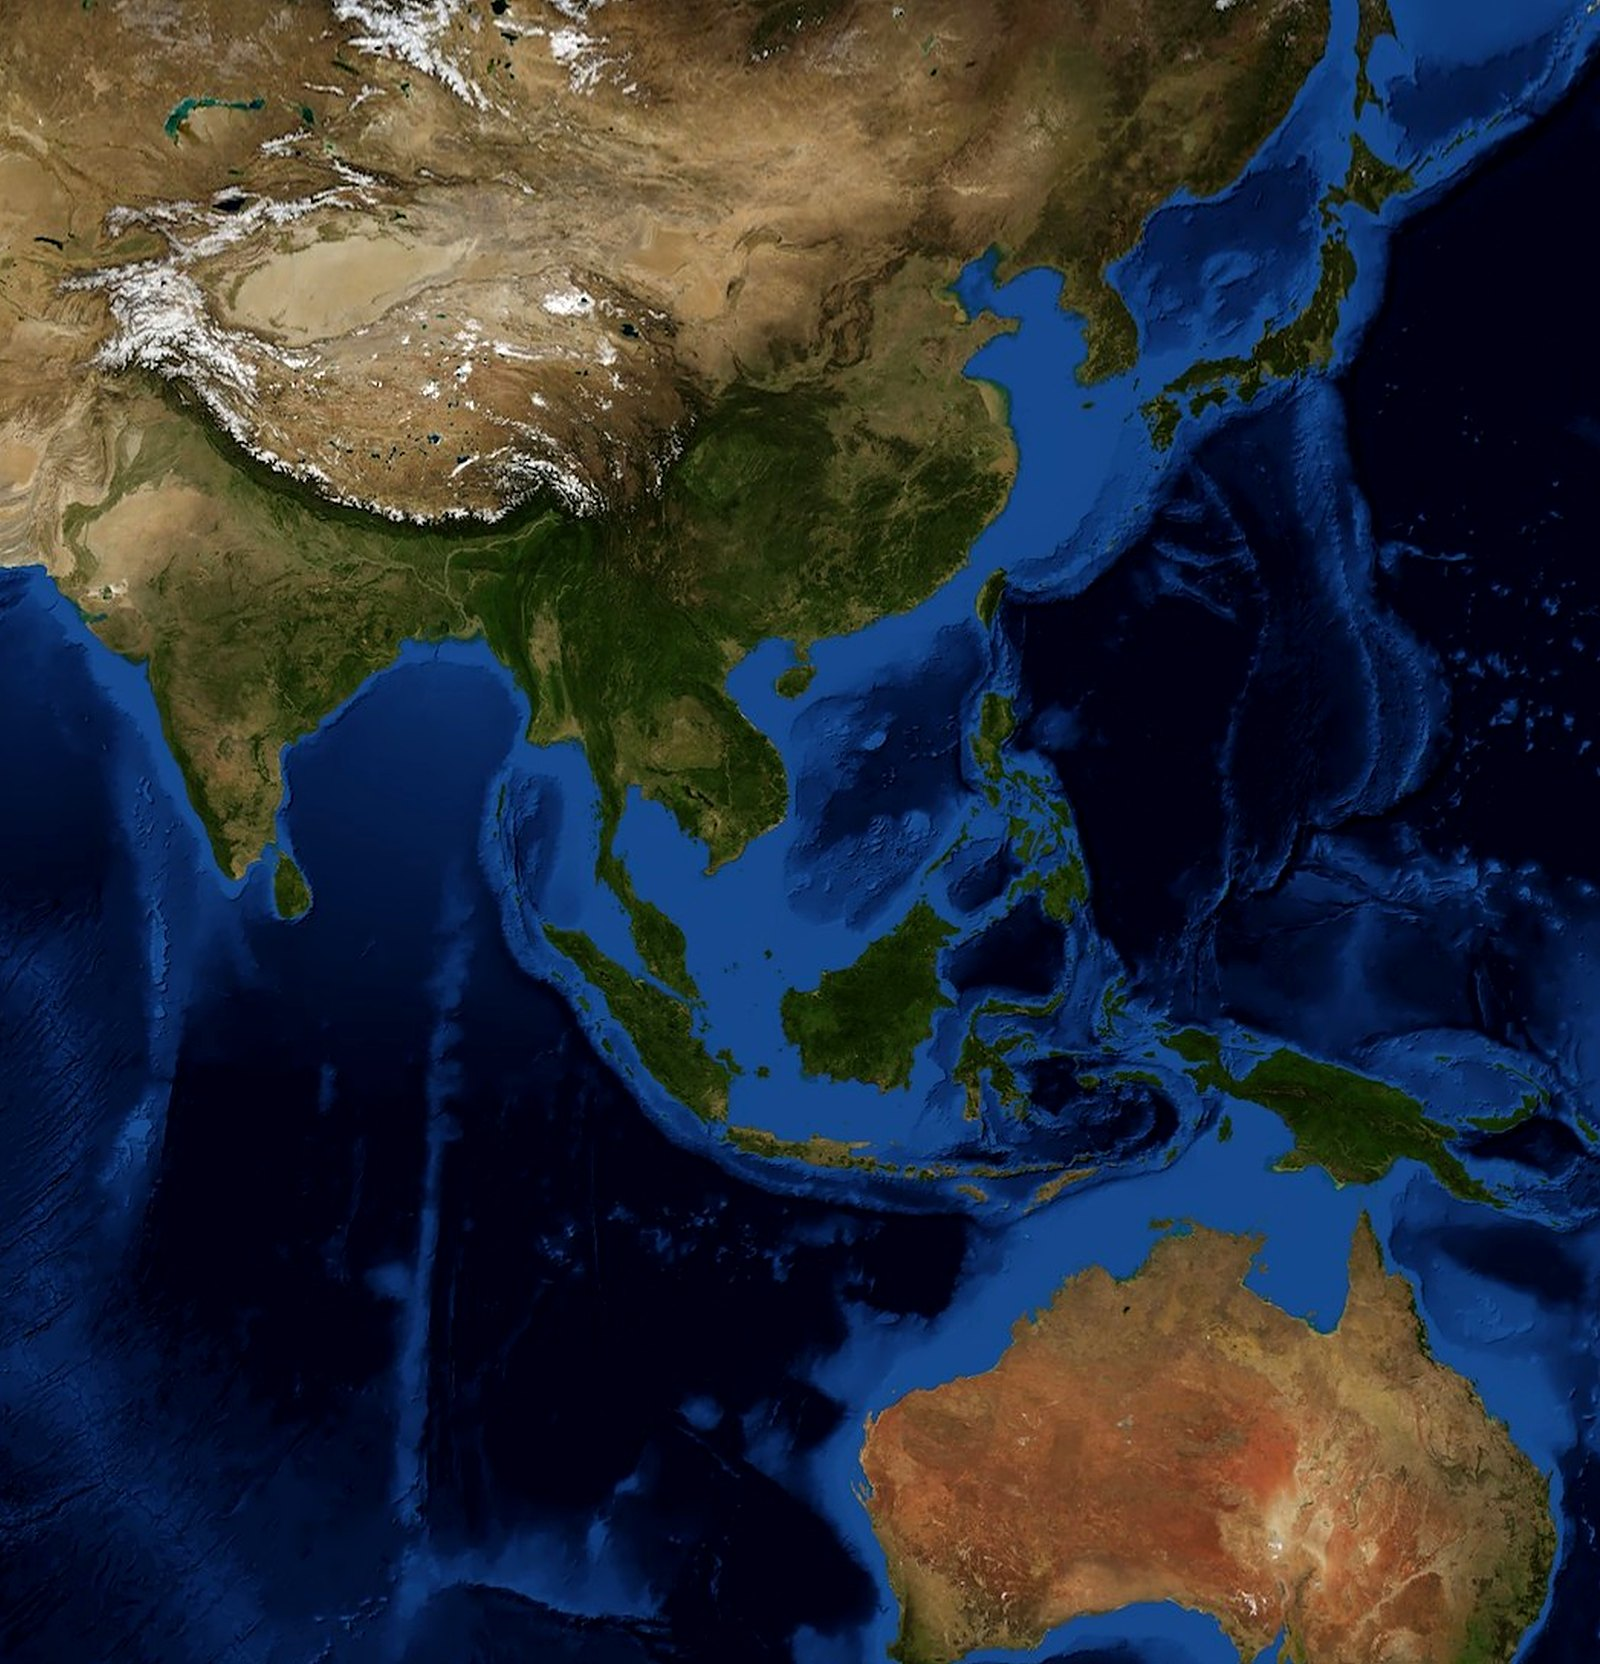
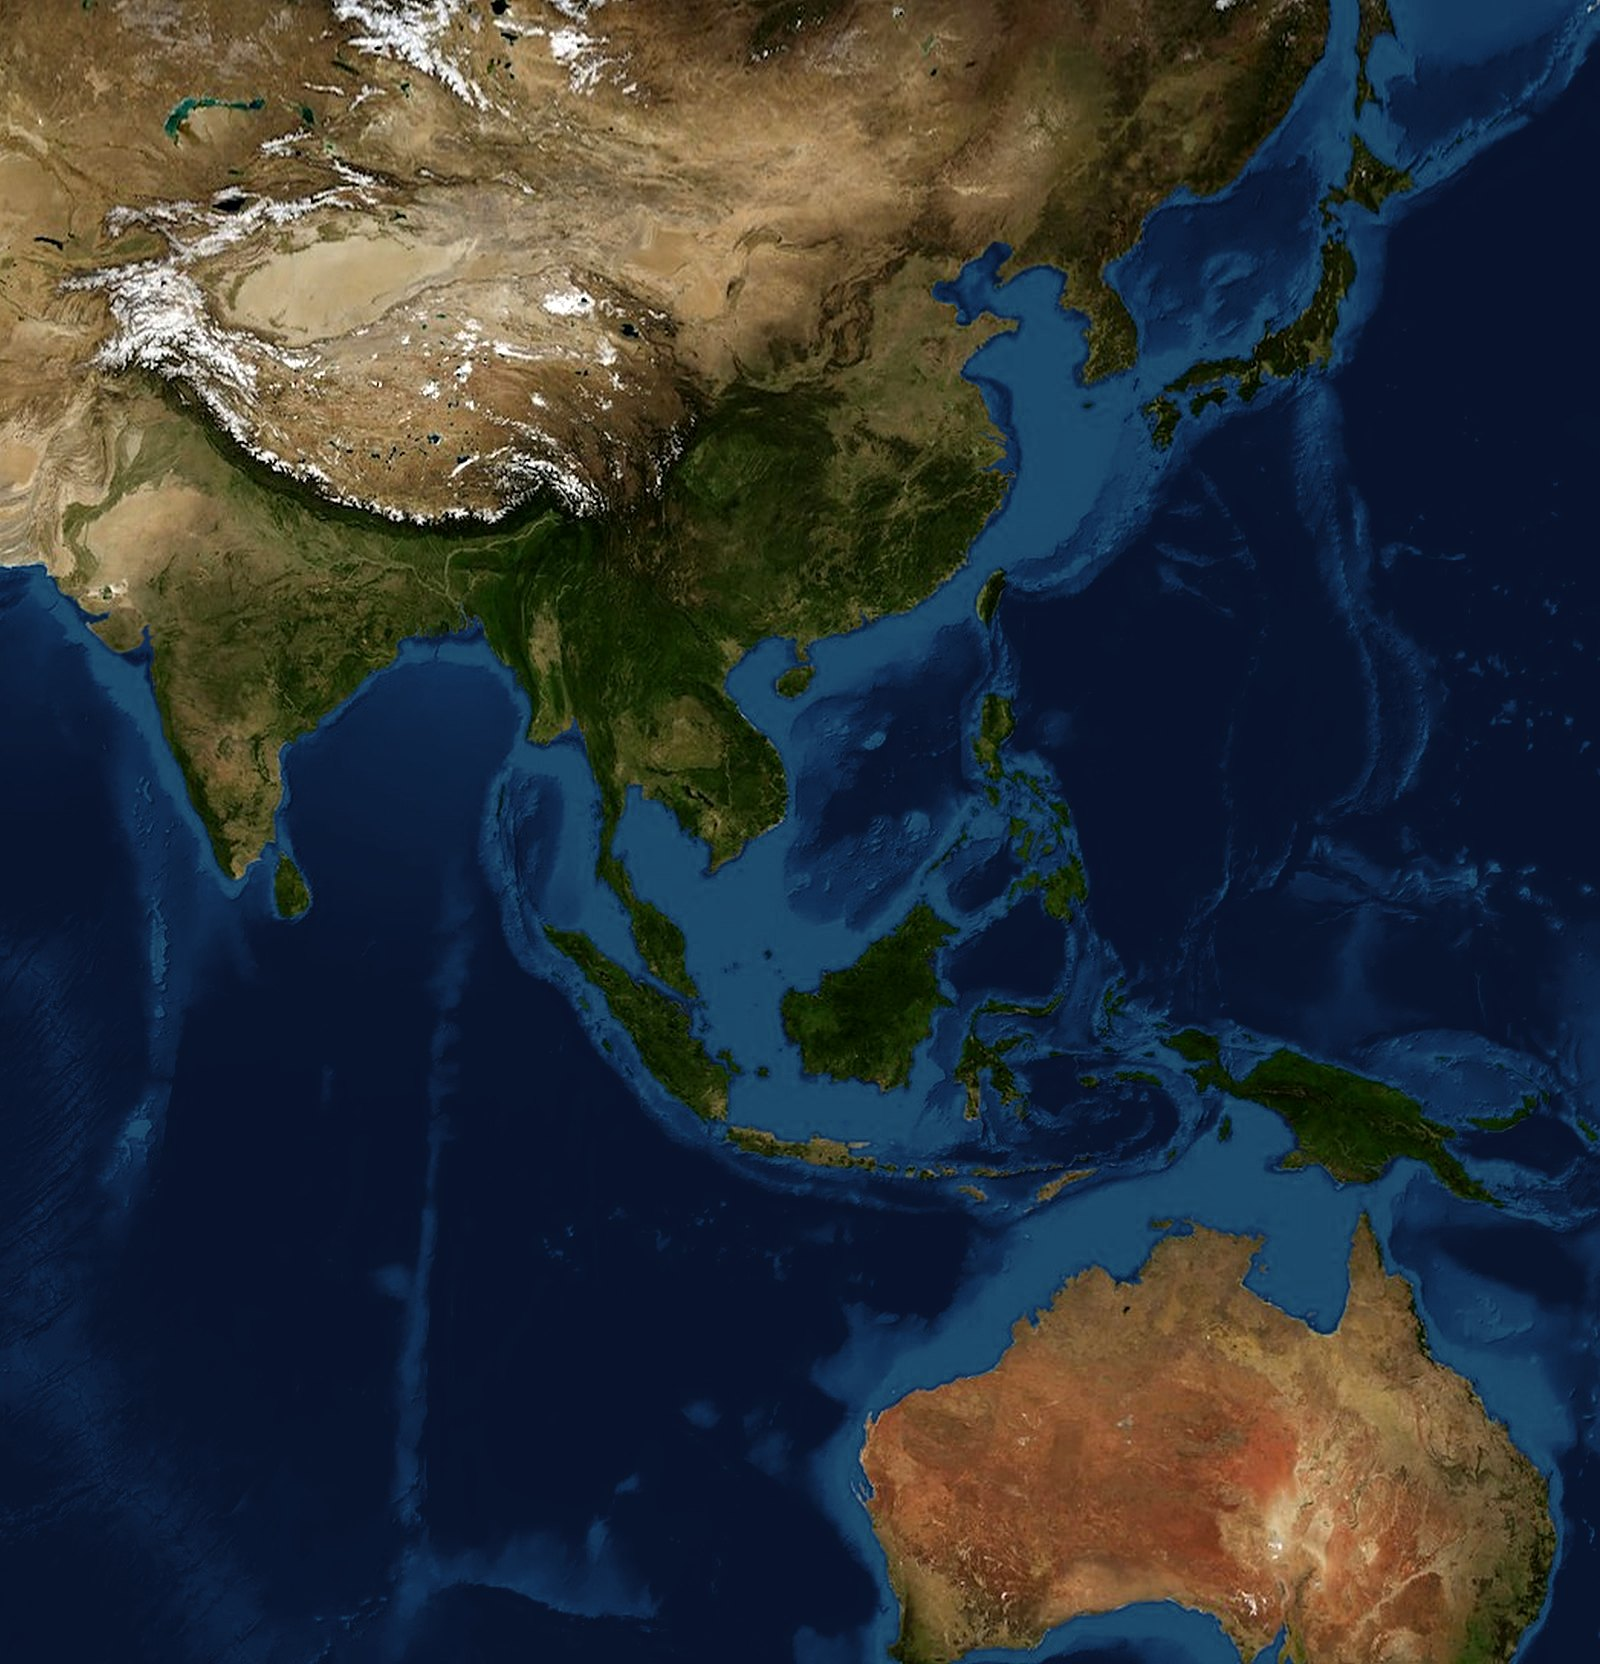
White header with gold nav, map and verses on the first screen
- Header: white bar, larger deep warm-gold nav (Cinzel caps, AA contrast
  on white), logo on its own deep-emerald corner like the artwork.
- Hero: one centred headline, then the satellite map and the verses
  block straight away so both are visible on opening. "Explore the
  collection" sits on the map over open land in the north; the intro
  sentence and the origins/ritual/legacy links are removed.
- Satellite imagery graded toward Google Earth's look: deep navy oceans
  with softer shelves, more natural land, coast masked with the Natural
  Earth outlines (scripts/grade-satellite.py).

Claude-Session: https://claude.ai/code/session_014JXnseoatscuvuVcnBHPzm

diff --git a/src/app/page.tsx b/src/app/page.tsx
@@ -76,12 +76,12 @@ const verses = [
 
 function Signs() {
   return (
-    <aside aria-label="From the Holy Qur'an" className="frame relative bg-night/55 px-6 py-9 sm:px-10">
+    <aside aria-label="From the Holy Qur'an" className="frame relative bg-night/55 px-6 py-7 sm:px-9">
       <span aria-hidden className="absolute inset-2 border border-gold-hair" />
-      <ul className="relative space-y-8">
+      <ul className="relative space-y-6">
         {verses.map((v) => (
           <li key={v.ref} className="text-center">
-            <p lang="ar" dir="rtl" className="quran text-[1.7rem] leading-[2.1] sm:text-[2rem]">
+            <p lang="ar" dir="rtl" className="quran text-[1.6rem] leading-[2] sm:text-[1.85rem]">
               {v.arabic}
             </p>
             <p className="mx-auto mt-3 max-w-lg text-[1.02rem] italic leading-relaxed text-ivory">
@@ -91,7 +91,7 @@ function Signs() {
           </li>
         ))}
       </ul>
-      <div aria-hidden className="relative mx-auto my-8 flex items-center justify-center gap-3">
+      <div aria-hidden className="relative mx-auto my-6 flex items-center justify-center gap-3">
         <span className="h-px w-12 bg-gold-line" />
         <span className="h-1.5 w-1.5 rotate-45 bg-gold" />
         <span className="h-px w-12 bg-gold-line" />
@@ -118,42 +118,26 @@ export default function Home() {
       <section className="velvet relative isolate overflow-hidden border-b border-gold-line">
         <BotanicalSprig className="absolute -left-6 top-0 -z-10 hidden h-full w-40 text-gold/25 md:block" />
 
-        <div className="mx-auto w-full max-w-[1400px] px-5 pb-14 pt-8 sm:px-8 md:pb-16 md:pt-10">
-          <div className="flex flex-wrap items-end justify-between gap-x-12 gap-y-6 md:pl-10">
-            <div className="max-w-3xl">
-              <h1 className="display text-[2.6rem] sm:text-5xl lg:text-[3.6rem]">
-                True Agarwood from Different Parts of Asia
-              </h1>
-              <p className="mt-4 max-w-xl text-[1.12rem] leading-relaxed text-ivory">
-                Genuine agarwood, formed over years as a tree answers a wound with fragrant resin.
-              </p>
-            </div>
-            <div className="flex flex-col items-start gap-5">
-              <Link href="/collection" className="btn btn-line">
-                Explore the collection <ArrowIcon className="h-4 w-4" />
-              </Link>
-              <ul className="eyebrow eyebrow-gold flex flex-wrap items-center gap-x-4 gap-y-2 !text-[0.55rem]">
-                <li>
-                  <Link href="/origins" className="hover:text-gold-bright">Rare origins</Link>
-                </li>
-                <li aria-hidden className="h-3 w-px bg-gold" />
-                <li>
-                  <Link href="/ritual" className="hover:text-gold-bright">The ritual</Link>
-                </li>
-                <li aria-hidden className="h-3 w-px bg-gold" />
-                <li>
-                  <Link href="/our-story" className="hover:text-gold-bright">Lasting legacy</Link>
-                </li>
-              </ul>
-            </div>
-          </div>
+        <div className="mx-auto w-full max-w-[1400px] px-5 pb-12 pt-5 sm:px-8 md:pt-6">
+          <h1 className="display text-balance text-center text-[2.1rem] sm:text-[2.6rem] lg:text-[3rem]">
+            True Agarwood from Different Parts of Asia
+          </h1>
 
-          <div className="mt-10 grid items-stretch gap-8 lg:grid-cols-[minmax(0,1.15fr)_minmax(0,1fr)] md:pl-10">
+          <div className="mt-5 grid items-stretch gap-6 lg:grid-cols-[minmax(0,1.15fr)_minmax(0,1fr)]">
             <figure className="frame relative flex flex-col bg-night/55 p-2">
-              <div className="relative aspect-[1000/720] overflow-hidden bg-black lg:aspect-auto lg:flex-1">
+              <div className="relative aspect-[1000/760] overflow-hidden bg-black lg:aspect-auto lg:flex-1">
                 <AsiaMap cover className="absolute inset-0 h-full w-full" />
+                {/* Over the open land of the north, clear of every country name. */}
+                <div className="absolute inset-x-0 top-[4%] flex justify-center px-4">
+                  <Link
+                    href="/collection"
+                    className="btn btn-solid !min-h-[2.5rem] !gap-3 !px-5 !text-[0.6rem] sm:!min-h-[3.2rem] sm:!gap-4 sm:!px-8 sm:!text-[0.74rem] shadow-[0_6px_28px_rgb(0_0_0_/_0.55)] ring-1 ring-gold-bright/70"
+                  >
+                    Explore the collection <ArrowIcon className="h-4 w-4" />
+                  </Link>
+                </div>
               </div>
-              <figcaption className="flex flex-wrap items-center justify-between gap-2 px-3 pb-1 pt-3">
+              <figcaption className="flex flex-wrap items-center justify-between gap-2 px-3 pb-1 pt-2.5">
                 <span className="eyebrow eyebrow-gold !text-[0.55rem]">Where agarwood grows</span>
                 <span className="text-[0.75rem] italic text-ivory-faint">
                   Satellite imagery: NASA Blue Marble

diff --git a/src/components/Header.tsx b/src/components/Header.tsx
@@ -24,23 +24,26 @@ export function Logo({ small = false }: { small?: boolean }) {
 
 export function Header() {
   return (
-    <header className="relative z-30 border-b border-gold-line bg-night/70 backdrop-blur-sm">
-      <div className="mx-auto flex max-w-[1400px] items-center justify-between gap-6 px-5 py-2 sm:px-8">
+    <header className="relative z-30 flex items-stretch border-b border-gold bg-white">
+      {/* The logo sits on its own deep-emerald corner, as in the original artwork. */}
+      <div className="flex shrink-0 items-center bg-emerald bg-[radial-gradient(90%_90%_at_50%_45%,#00461a_0%,#002e0a_70%)] px-5 py-2 sm:px-8">
         <Logo />
-        <nav aria-label="Main" className="hidden lg:block">
+      </div>
+      <div className="flex flex-1 items-center justify-between gap-6 px-5 sm:px-8">
+        <nav aria-label="Main" className="hidden flex-1 justify-center lg:flex">
           <NavLinks />
         </nav>
-        <div className="flex items-center gap-2 sm:gap-4">
+        <div className="ml-auto flex items-center gap-2 sm:gap-4">
           <Link
             href="/collection"
             aria-label="Search the collection"
-            className="hidden h-11 w-11 items-center justify-center text-ivory hover:text-gold sm:flex"
+            className="hidden h-11 w-11 items-center justify-center text-gold-deep hover:text-emerald sm:flex"
           >
-            <SearchIcon className="h-5 w-5" />
+            <SearchIcon className="h-6 w-6" />
           </Link>
           <CartButton />
-          <span aria-hidden className="mx-2 hidden h-10 w-px bg-gold-line xl:block" />
-          <p className="side-note hidden !text-[0.5rem] !leading-[1.7] xl:block">
+          <span aria-hidden className="mx-2 hidden h-10 w-px bg-gold/60 min-[1400px]:block" />
+          <p className="side-note hidden !text-[0.58rem] !leading-[1.7] !text-gold-deep min-[1400px]:block">
             A more
             <br />
             fragrant
@@ -48,7 +51,9 @@ export function Header() {
             world
           </p>
           <details className="relative lg:hidden">
-            <summary className="eyebrow flex h-11 cursor-pointer list-none items-center px-2">Menu</summary>
+            <summary className="flex h-11 cursor-pointer list-none items-center px-2 font-[family-name:var(--font-caps)] text-[0.85rem] font-semibold tracking-[0.25em] text-gold-deep uppercase">
+              Menu
+            </summary>
             <nav
               aria-label="Mobile"
               className="absolute right-0 top-12 w-64 border border-gold-line bg-night p-5"

diff --git a/src/components/NavLinks.tsx b/src/components/NavLinks.tsx
@@ -7,7 +7,7 @@ import { nav } from "@/content/nav";
 export function NavLinks() {
   const pathname = usePathname();
   return (
-    <ul className="flex items-center gap-9">
+    <ul className="flex items-center gap-8 xl:gap-11">
       {nav.map((item) => {
         const active =
           item.href === "/" ? pathname === "/" : pathname.startsWith(item.href);
@@ -16,10 +16,8 @@ export function NavLinks() {
             <Link
               href={item.href}
               aria-current={active ? "page" : undefined}
-              className={`border-b pb-1 text-[0.98rem] transition-colors ${
-                active
-                  ? "border-gold text-gold-bright"
-                  : "border-transparent text-ivory hover:text-gold-bright"
+              className={`border-b-2 pb-1 font-[family-name:var(--font-caps)] text-[1.05rem] font-semibold uppercase tracking-[0.14em] text-gold-deep transition-colors xl:text-[1.2rem] ${
+                active ? "border-gold" : "border-transparent hover:border-gold/50 hover:text-emerald"
               }`}
             >
               {item.label}

diff --git a/src/components/CartButton.tsx b/src/components/CartButton.tsx
@@ -9,12 +9,12 @@ export function CartButton() {
     <button
       type="button"
       onClick={() => cart.openDrawer()}
-      className="relative flex h-11 w-11 items-center justify-center text-ivory hover:text-gold"
+      className="relative flex h-11 w-11 items-center justify-center text-gold-deep hover:text-emerald"
       aria-label={`Open cart, ${count} item${count === 1 ? "" : "s"}`}
     >
-      <BagIcon className="h-[1.35rem] w-[1.35rem]" />
+      <BagIcon className="h-6 w-6" />
       <span
-        className="absolute right-1 top-1.5 flex h-4 min-w-4 items-center justify-center rounded-full bg-gold px-1 font-[family-name:var(--font-caps)] text-[0.55rem] font-semibold text-ink"
+        className="absolute right-1 top-1.5 flex h-4 min-w-4 items-center justify-center rounded-full bg-emerald px-1 font-[family-name:var(--font-caps)] text-[0.55rem] font-semibold text-gold-bright"
         suppressHydrationWarning
       >
         {count}

diff --git a/src/components/AsiaMap.tsx b/src/components/AsiaMap.tsx
@@ -135,9 +135,11 @@ export function AsiaMap({
         letterSpacing="5"
         textAnchor="middle"
       >
-        <text x="470" y="60" fill="rgb(239 228 211 / 0.85)" fontSize="18" letterSpacing="7">
-          ASIA
-        </text>
+        {!cover && (
+          <text x="470" y="60" fill="rgb(239 228 211 / 0.85)" fontSize="18" letterSpacing="7">
+            ASIA
+          </text>
+        )}
         <text x="190" y="520">INDIAN</text>
         <text x="190" y="542">OCEAN</text>
         <text x="830" y="250">PACIFIC</text>

diff --git a/src/app/globals.css b/src/app/globals.css
@@ -15,6 +15,9 @@
   --color-gold-bright: #ecca82;
   --color-walnut: #3d3322;
   --color-ink: #062012;
+  /* the green field of the ALUWWAH logo, and gold readable on white */
+  --color-emerald: #002e0a;
+  --color-gold-deep: #9a6d1c;
 
   --color-ivory: #efe4d3;
   --color-ivory-soft: rgb(239 228 211 / 0.8);

diff --git a/scripts/grade-satellite.py b/scripts/grade-satellite.py
@@ -1,0 +1,59 @@
+"""Colour-grades the reprojected Blue Marble crop toward the look of Google Earth.
+
+Blue Marble paints the sea bright royal blue with strong shelf relief, which
+reads as artificial. Here the oceans become deep navy (shallow shelves only a
+little lighter), and the land gets slightly more contrast and less saturation.
+Land and sea are separated with the Natural Earth country outlines already in
+src/content/asia-map.ts, so the coast is exact.
+
+Run after build-satellite.py:
+  node --experimental-strip-types -e 'import("./src/content/asia-map.ts").then(m=>require("fs").writeFileSync("paths.json", JSON.stringify([...m.landPaths, ...m.regionPaths.map(r=>r.d)])))'
+  python3 scripts/grade-satellite.py raw.jpg paths.json src/assets/asia-satellite.jpg
+"""
+import json
+import re
+import sys
+
+import numpy as np
+from PIL import Image, ImageDraw, ImageEnhance, ImageFilter
+
+K, EXT = 1.6, 200  # must match build-satellite.py
+
+raw = Image.open(sys.argv[1]).convert("RGB")
+W, H = raw.size
+paths = json.load(open(sys.argv[2]))
+
+# Rasterise land at 2x, then downsample for a soft, anti-aliased coast.
+SS = 2
+mask = Image.new("L", (W * SS, H * SS), 0)
+draw = ImageDraw.Draw(mask)
+for d in paths:
+    for sub in re.findall(r"M[^M]*", d):
+        pts = [(float(x) * K * SS, (float(y) + EXT) * K * SS) for x, y in re.findall(r"(-?\d+(?:\.\d+)?),(-?\d+(?:\.\d+)?)", sub)]
+        if len(pts) >= 3:
+            draw.polygon(pts, fill=255)
+mask = mask.resize((W, H), Image.LANCZOS).filter(ImageFilter.GaussianBlur(0.8))
+land = np.asarray(mask).astype(np.float32)[..., None] / 255
+
+a = np.asarray(raw).astype(np.float32) / 255
+
+# --- Ocean: depth from Blue Marble's own shading, mapped to navy tones.
+lum = a @ np.array([0.2, 0.3, 0.5], dtype=np.float32)
+depth = np.clip((lum - 0.1) / 0.36, 0, 1) ** 1.1  # 0 = deep, 1 = shallow shelf
+deep = np.array([0.04, 0.09, 0.2], dtype=np.float32)
+mid = np.array([0.07, 0.2, 0.36], dtype=np.float32)
+shelf = np.array([0.16, 0.4, 0.5], dtype=np.float32)
+t = depth[..., None]
+ocean = np.where(t < 0.5, deep + (mid - deep) * (t / 0.5), mid + (shelf - mid) * ((t - 0.5) / 0.5))
+# keep a little of the original texture so the sea is not flat
+ocean = ocean * (0.85 + 0.3 * lum[..., None])
+
+# --- Land: a touch less saturated, more contrast, slightly darker.
+g = a.mean(axis=2, keepdims=True)
+landc = g + (a - g) * 0.9
+landc = np.clip((landc - 0.45) * 1.1 + 0.47, 0, 1)
+
+out = ocean * (1 - land) + landc * land
+img = Image.fromarray(np.clip(out * 255, 0, 255).astype(np.uint8))
+img = ImageEnhance.Sharpness(img).enhance(1.15)
+img.save(sys.argv[3], quality=86, optimize=True, progressive=True)

diff --git a/scripts/build-satellite.py b/scripts/build-satellite.py
@@ -50,4 +50,4 @@ img = Image.fromarray(np.clip(out, 0, 255).astype(np.uint8))
 img = ImageEnhance.Contrast(img).enhance(1.08)
 img = ImageEnhance.Color(img).enhance(1.1)
 img = img.filter(ImageFilter.UnsharpMask(radius=1.2, percent=60, threshold=2))
-img.save("src/assets/asia-satellite.jpg", quality=86, optimize=True, progressive=True)
+img.save(sys.argv[2] if len(sys.argv) > 2 else "src/assets/asia-satellite-raw.jpg", quality=86, optimize=True, progressive=True)
